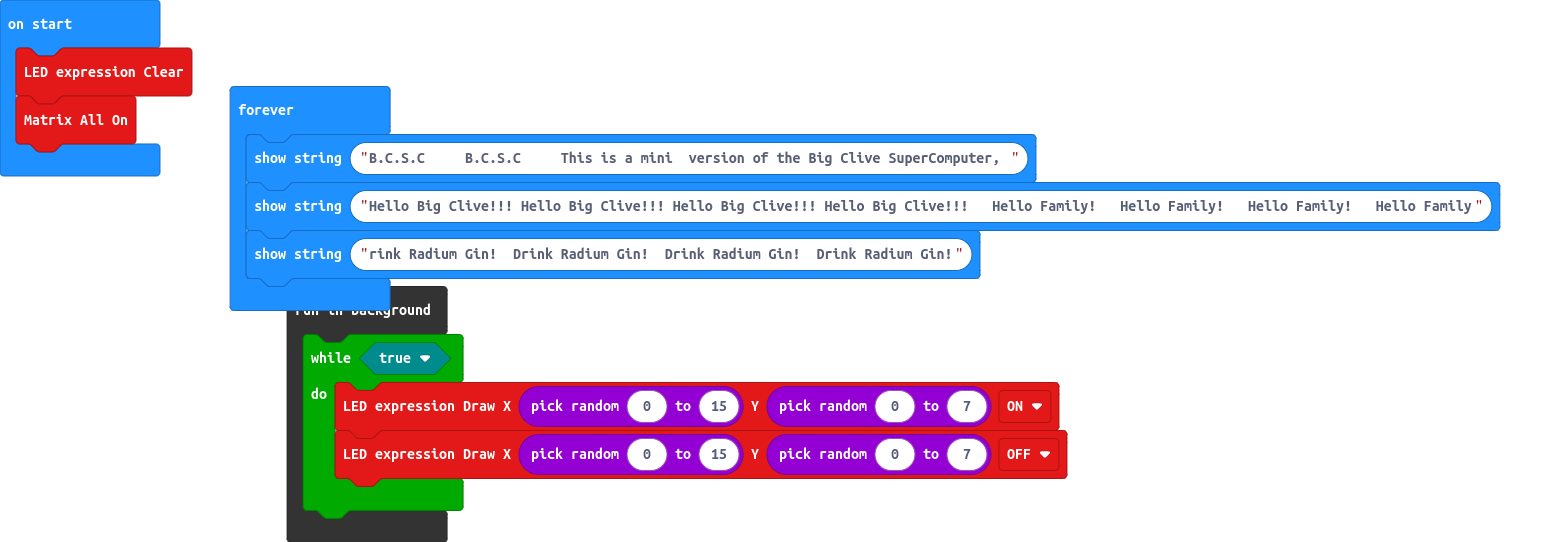
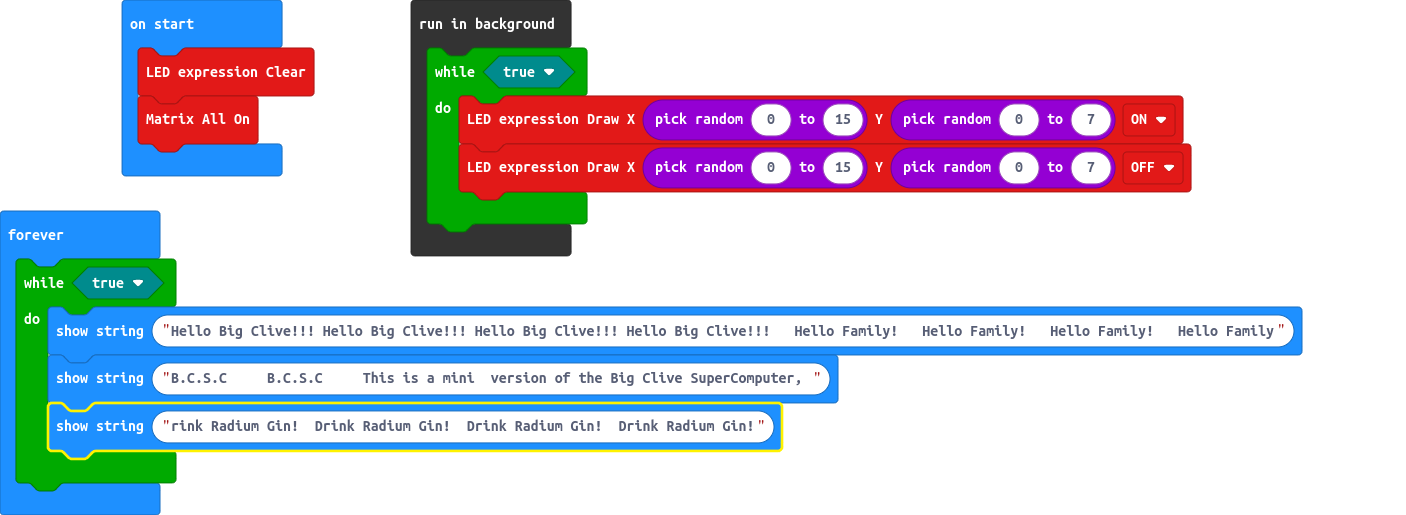
Update main.blocks, main.ts

diff --git a/main.ts b/main.ts
@@ -1,9 +1,11 @@
 LEDBit.LEDClear()
 LEDBit.LEDAllOn()
 basic.forever(function () {
-    basic.showString("B.C.S.C     B.C.S.C     This is a mini  version of the Big Clive SuperComputer, ")
-    basic.showString("Hello Big Clive!!! Hello Big Clive!!! Hello Big Clive!!! Hello Big Clive!!!   Hello Family!   Hello Family!   Hello Family!   Hello Family")
-    basic.showString("Drink Radium Gin!  Drink Radium Gin!  Drink Radium Gin!  Drink Radium Gin!")
+    while (true) {
+        basic.showString("Hello Big Clive!!! Hello Big Clive!!! Hello Big Clive!!! Hello Big Clive!!!   Hello Family!   Hello Family!   Hello Family!   Hello Family")
+        basic.showString("B.C.S.C     B.C.S.C     This is a mini  version of the Big Clive SuperComputer, ")
+        basic.showString("rink Radium Gin!  Drink Radium Gin!  Drink Radium Gin!  Drink Radium Gin!")
+    }
 })
 control.inBackground(function () {
     while (true) {
